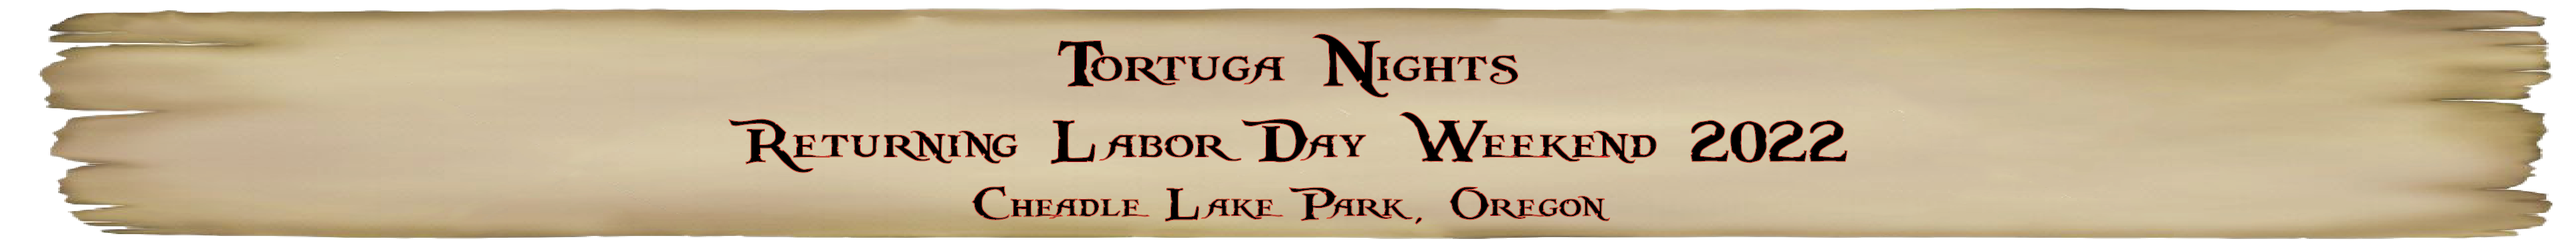
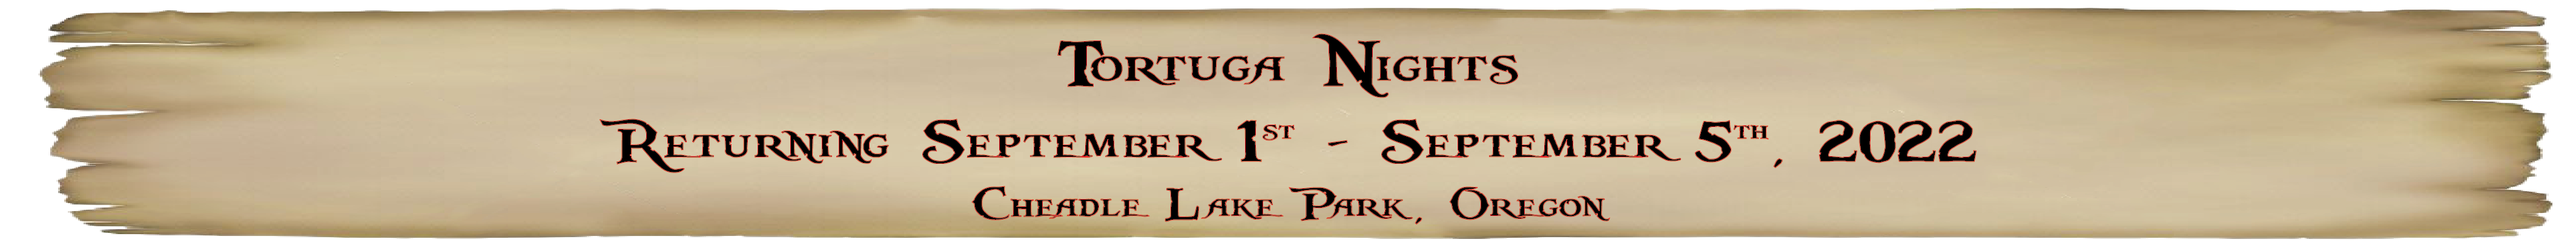
Event Dates Updated

Changed region(s): [[0.2172, 0.4741, 0.7757, 0.7111]]

diff --git a/TortugaNights.php b/TortugaNights.php
@@ -37,7 +37,7 @@
 						</div>
 						<script>
 							// Set the date we're counting down to
-							var countDownDate = new Date("September 2, 2022 08:00:").getTime();
+							var countDownDate = new Date("September 1, 2022 08:00:").getTime();
 
 							// Update the count down every 1 second
 							var x = setInterval(function() {

diff --git a/PortNassau.php b/PortNassau.php
@@ -37,7 +37,7 @@
 						</div>
 						<script>
 							// Set the date we're counting down to
-							var countDownDate = new Date("July 15, 2022 08:00:").getTime();
+							var countDownDate = new Date("July 21, 2022 08:00:").getTime();
 
 							// Update the count down every 1 second
 							var x = setInterval(function() {
